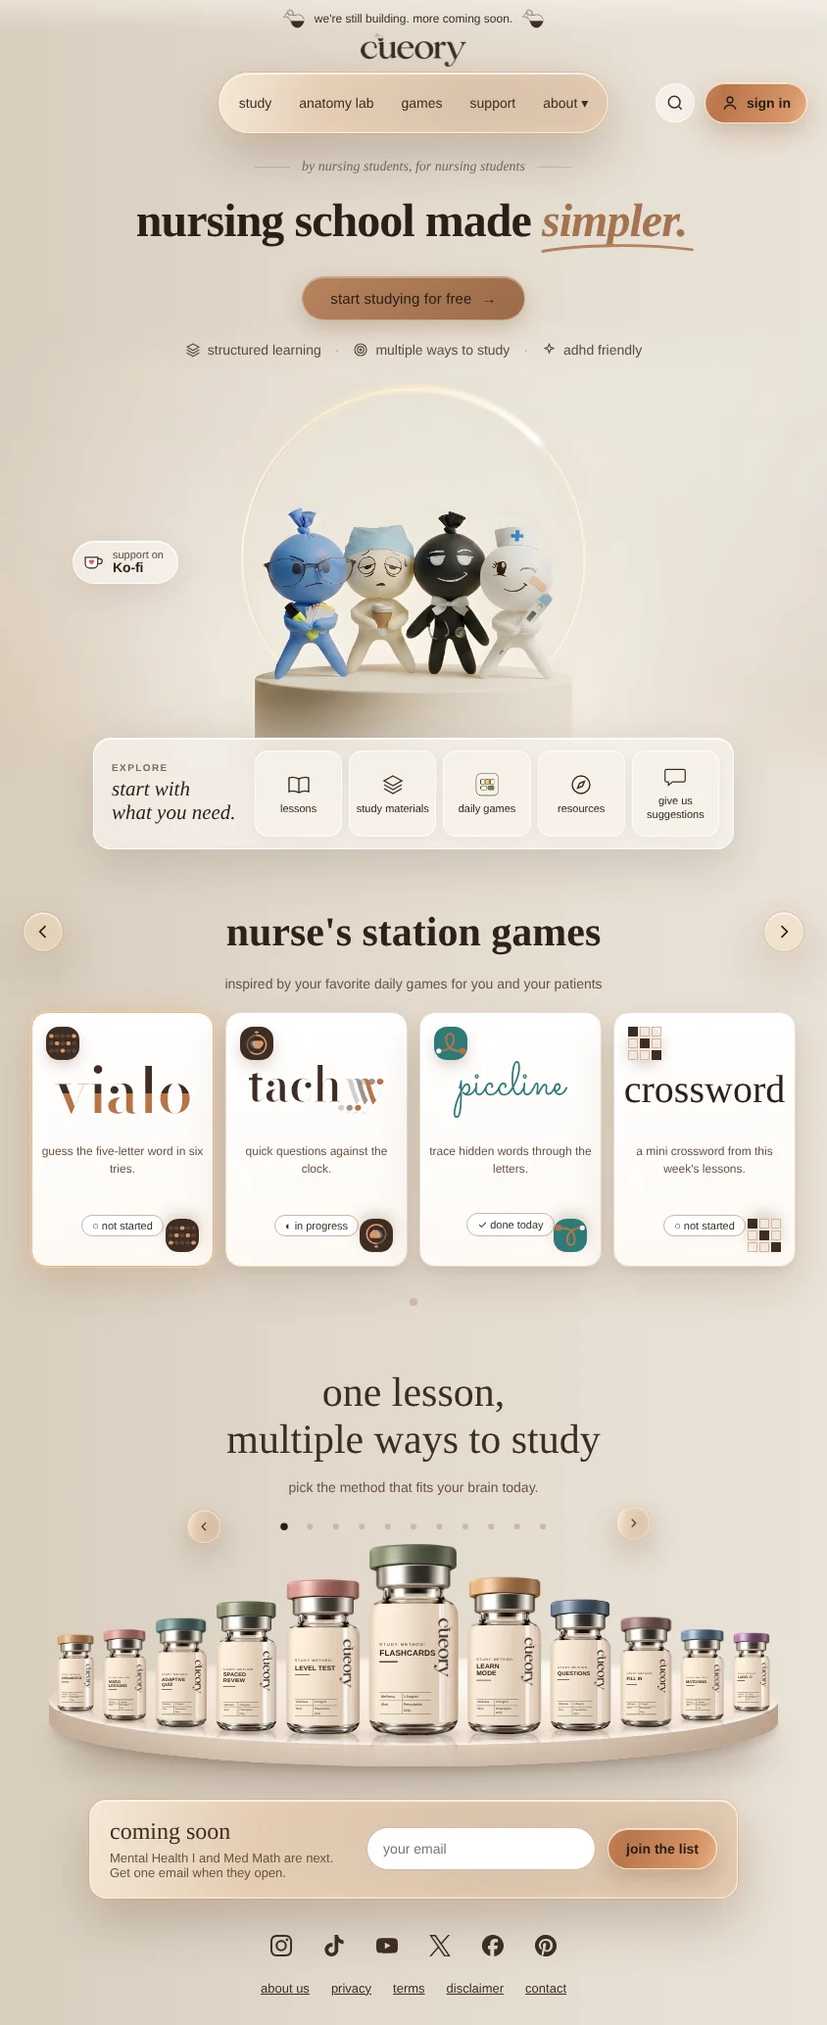
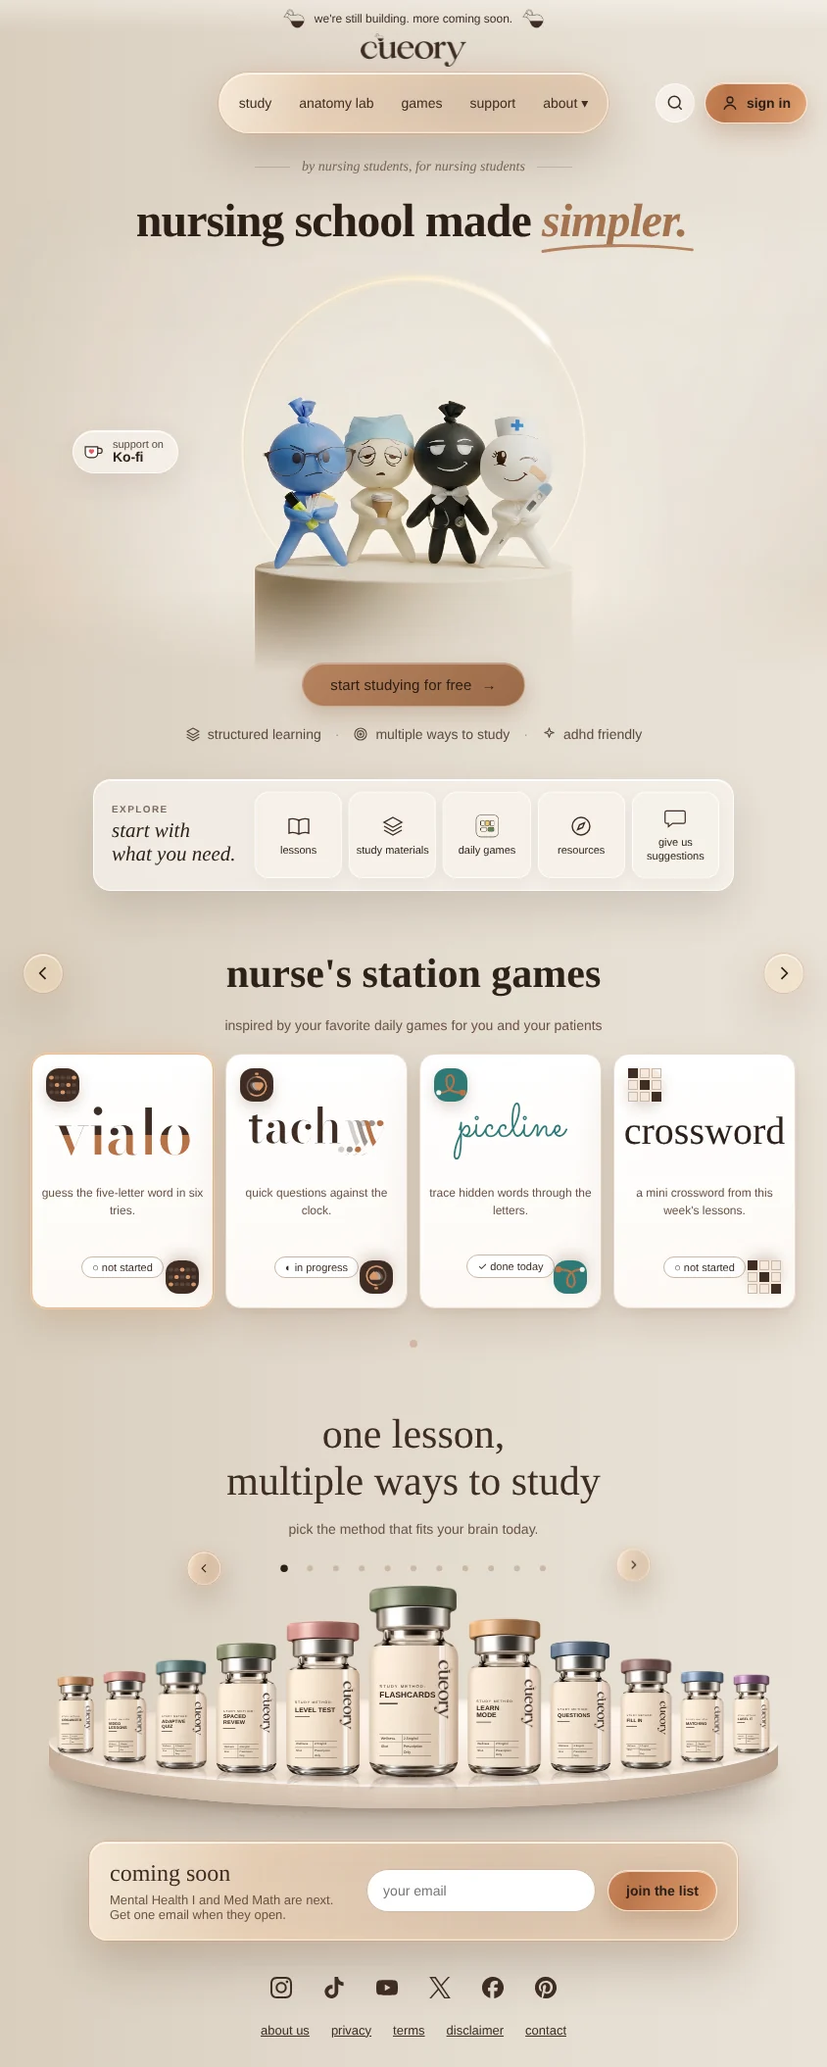
Home v3 hand-off: landscape hero order (gloves, button, points, explore)
Claude-Session: https://claude.ai/code/session_01V8pHm5xDFd3PCqqXThexqv

diff --git a/docs/design/home-v3/home-landscape-evening.dc.html b/docs/design/home-v3/home-landscape-evening.dc.html
@@ -191,16 +191,16 @@ section:not([id]){padding:26px 24px 0!important;max-width:none!important}
 section:not([id]) > div:first-child{font-size:14px!important;gap:12px!important;margin-bottom:20px!important}
 section:not([id]) > div:first-child > span{width:36px!important}
 section:not([id]) > h1{font-size:48px!important;line-height:1.12!important}
-section:not([id]) > a{margin-top:30px!important;font-size:15px!important;padding:13px 28px!important}
-section:not([id]) > div:nth-of-type(2){margin-top:22px!important;gap:12px 14px!important;font-size:14px!important}
-section:not([id]) > div:nth-of-type(3){height:252px!important;margin-top:150px!important;max-width:none!important;width:576px!important}
-section:not([id]) > div:nth-of-type(3) > img{width:864px!important;height:482px!important;top:-198px!important}
+section:not([id]) > a{margin-top:22px!important;font-size:15px!important;padding:13px 28px!important}
+section:not([id]) > div:nth-of-type(3){margin-top:20px!important;gap:12px 14px!important;font-size:14px!important}
+section:not([id]) > div:nth-of-type(2){height:252px!important;margin-top:150px!important;max-width:none!important;width:576px!important}
+section:not([id]) > div:nth-of-type(2) > img{width:864px!important;height:482px!important;top:-198px!important}
 .halo-shine{top:56px!important;width:362px!important;height:362px!important;margin:-181px 0 0 -181px!important;-webkit-mask-image:radial-gradient(circle,transparent 169px,#000 173px,#000 176px,transparent 181px)!important;mask-image:radial-gradient(circle,transparent 169px,#000 173px,#000 176px,transparent 181px)!important}
-section:not([id]) > div:nth-of-type(3) > a{left:-60px!important;top:37px!important;padding:7px 14px 7px 10px!important;gap:8px!important}
-section:not([id]) > div:nth-of-type(3) > a svg{width:22px;height:18px}
-section:not([id]) > div:nth-of-type(3) > a span span:last-child{font-size:14px!important}
+section:not([id]) > div:nth-of-type(2) > a{left:-60px!important;top:37px!important;padding:7px 14px 7px 10px!important;gap:8px!important}
+section:not([id]) > div:nth-of-type(2) > a svg{width:22px;height:18px}
+section:not([id]) > div:nth-of-type(2) > a span span:last-child{font-size:14px!important}
 #daily-games{padding:44px 24px 16px!important}
-nav[aria-label="Explore"]{max-width:620px!important;margin:-58px auto 0!important;padding:12px 14px 12px 18px!important;gap:12px!important;border-radius:18px!important;flex-wrap:nowrap!important}
+nav[aria-label="Explore"]{max-width:620px!important;margin:-6px auto 0!important;padding:12px 14px 12px 18px!important;gap:12px!important;border-radius:18px!important;flex-wrap:nowrap!important}
 nav[aria-label="Explore"] > div:first-child{flex:0 0 130px!important;padding-right:4px!important}
 nav[aria-label="Explore"] > div:first-child > div:first-child{font-size:10px!important}
 nav[aria-label="Explore"] > div:first-child > div:last-child{font-size:21px!important;margin-top:4px!important}
@@ -272,6 +272,11 @@ footer{padding:12px 24px 30px!important;gap:10px 22px!important;justify-content:
 <section style="max-width: 1120px; margin: 0 auto; padding: 20px 24px 0; display: flex; flex-direction: column; align-items: center; text-align: center; position: relative; z-index: 1; color: #f4ebe1">
 <div style="display: inline-flex; align-items: center; gap: 14px; font-family: 'Playfair Display', Georgia, serif; font-style: italic; font-size: 16px; color: #9e8a78; margin-bottom: 16px; position: relative; z-index: 3"><span aria-hidden="true" style="width: 48px; height: 1px; background: rgba(203,185,167,0.22)"></span>by nursing students, for nursing students<span aria-hidden="true" style="width: 48px; height: 1px; background: rgba(203,185,167,0.22)"></span></div>
 <h1 style="text-shadow: 0 8px 28px rgba(0,0,0,0.45); margin: 0; font-family: &quot;Bodoni Moda&quot;; font-weight: 700; font-size: 66px; line-height: 1.08; letter-spacing: -0.02em; color: #f4ebe1; position: relative; z-index: 3"><span>nursing school made</span> <span style="position: relative; display: inline-block; font-style: italic; color: #c98f63; padding-right: 4px">simpler.<svg aria-hidden="true" viewBox="0 0 220 18" preserveAspectRatio="none" fill="none" style="position: absolute; left: -2px; bottom: -8px; width: 104%; height: 14px; color: #d19668"><path d="M4 13.5C58 4.5 148 3.5 216 11.5" stroke="currentColor" stroke-width="3.6" stroke-linecap="round"></path></svg></span></h1>
+<div style="position: relative; width: 100%; max-width: 960px; height: 420px; margin-top: 36px">
+<img src="/design/home-v3/stage-evening.webp" alt="Four glove characters on a round pedestal inside a thin glowing ring: one in glasses holding study cards, one tired in a scrub cap with a coffee, one in a bow tie with a stethoscope, one in a nurse's cap holding a thermometer" style="position: absolute; left: 50%; top: -330px; transform: translateX(-50%); width: 1440px; max-width: none; height: 804px; z-index: 0; pointer-events: none; -webkit-mask-image: linear-gradient(180deg, transparent 0, #000 14%, #000 82%, transparent 100%); mask-image: linear-gradient(180deg, transparent 0, #000 14%, #000 82%, transparent 100%)"><div class="halo-shine" aria-hidden="true"><i></i></div>
+<a href="#" onClick="{{openSupport}}" style="position: absolute; left: 4%; top: 62px; z-index: 12; display: inline-flex; align-items: center; gap: 11px; padding: 10px 18px 10px 14px; border-radius: 999px; background: rgba(34,25,19,0.68); border: 1px solid rgba(226,189,154,0.22); box-shadow: 0 12px 32px rgba(0,0,0,0.55), inset 0 1px 0 rgba(255,230,205,0.12); text-decoration: none; color: #f4ebe1"><svg aria-hidden="true" width="28" height="22" viewBox="0 0 32 24" fill="none"><path d="M3 4.5h18.5v9.8a6.2 6.2 0 01-6.2 6.2H9.2A6.2 6.2 0 013 14.3V4.5z" fill="#ffffff" stroke="#2a1d16" stroke-width="1.7"></path><path d="M21.5 6.8h2.8a3.7 3.7 0 010 7.4h-2.8" stroke="#ffffff" stroke-width="1.7" stroke-linecap="round"></path><path d="M12.2 15.4s-4-2.5-4-5.1a2.3 2.3 0 014-1.5 2.3 2.3 0 014 1.5c0 2.6-4 5.1-4 5.1z" fill="#e85b63"></path></svg><span style="display: flex; flex-direction: column; text-align: left; line-height: 1.12"><span style="font-size: 11px; color: #cbb9a7">support on</span><span style="font-size: 17px; font-weight: 700; letter-spacing: -0.01em">Ko-fi</span></span></a>
+
+</div>
 <a href="#" style="margin-top: -28px; display: inline-flex; align-items: center; gap: 10px; padding: 13px 28px; border-radius: 999px; background: linear-gradient(135deg, #c1875d 0%, #9b6743 100%); border: 1px solid rgba(255,242,230,0.35); box-shadow: 0 8px 22px rgba(132,86,52,0.28), inset 0 1px 0 rgba(255,255,255,0.35); color: #1c120c; text-decoration: none; font-size: 16px; letter-spacing: 0.01em; position: relative; z-index: 3">start studying for free <span aria-hidden="true">→</span></a>
 <div style="margin-top: 38px; display: flex; flex-wrap: wrap; align-items: center; justify-content: center; gap: 12px; font-size: 14px; color: #cbb9a7; position: relative; z-index: 3">
 <span style="display: inline-flex; align-items: center; gap: 7px"><svg aria-hidden="true" width="16" height="16" viewBox="0 0 24 24" fill="none" stroke="currentColor" stroke-width="1.7" stroke-linecap="round" stroke-linejoin="round"><path d="M12 3L3 8l9 5 9-5-9-5z"></path><path d="M3 12.5l9 5 9-5"></path><path d="M3 17l9 5 9-5"></path></svg>structured learning</span>
@@ -279,11 +284,6 @@ footer{padding:12px 24px 30px!important;gap:10px 22px!important;justify-content:
 <span style="display: inline-flex; align-items: center; gap: 7px"><svg aria-hidden="true" width="16" height="16" viewBox="0 0 24 24" fill="none" stroke="currentColor" stroke-width="1.7" stroke-linecap="round" stroke-linejoin="round"><circle cx="12" cy="12" r="9"></circle><circle cx="12" cy="12" r="5"></circle><circle cx="12" cy="12" r="1.5"></circle></svg>multiple ways to study</span>
 <span aria-hidden="true" style="opacity: 0.45">·</span>
 <span style="display: inline-flex; align-items: center; gap: 7px"><svg aria-hidden="true" width="15" height="15" viewBox="0 0 24 24" fill="none" stroke="currentColor" stroke-width="1.7" stroke-linecap="round" stroke-linejoin="round"><path d="M12 3l1.9 5.6L19.5 10.5l-5.6 1.9L12 18l-1.9-5.6-5.6-1.9 5.6-1.9L12 3z"></path></svg>adhd friendly</span>
-</div>
-<div style="position: relative; width: 100%; max-width: 960px; height: 420px; margin-top: 36px">
-<img src="/design/home-v3/stage-evening.webp" alt="Four glove characters on a round pedestal inside a thin glowing ring: one in glasses holding study cards, one tired in a scrub cap with a coffee, one in a bow tie with a stethoscope, one in a nurse's cap holding a thermometer" style="position: absolute; left: 50%; top: -330px; transform: translateX(-50%); width: 1440px; max-width: none; height: 804px; z-index: 0; pointer-events: none; -webkit-mask-image: linear-gradient(180deg, transparent 0, #000 14%, #000 82%, transparent 100%); mask-image: linear-gradient(180deg, transparent 0, #000 14%, #000 82%, transparent 100%)"><div class="halo-shine" aria-hidden="true"><i></i></div>
-<a href="#" onClick="{{openSupport}}" style="position: absolute; left: 4%; top: 62px; z-index: 12; display: inline-flex; align-items: center; gap: 11px; padding: 10px 18px 10px 14px; border-radius: 999px; background: rgba(34,25,19,0.68); border: 1px solid rgba(226,189,154,0.22); box-shadow: 0 12px 32px rgba(0,0,0,0.55), inset 0 1px 0 rgba(255,230,205,0.12); text-decoration: none; color: #f4ebe1"><svg aria-hidden="true" width="28" height="22" viewBox="0 0 32 24" fill="none"><path d="M3 4.5h18.5v9.8a6.2 6.2 0 01-6.2 6.2H9.2A6.2 6.2 0 013 14.3V4.5z" fill="#ffffff" stroke="#2a1d16" stroke-width="1.7"></path><path d="M21.5 6.8h2.8a3.7 3.7 0 010 7.4h-2.8" stroke="#ffffff" stroke-width="1.7" stroke-linecap="round"></path><path d="M12.2 15.4s-4-2.5-4-5.1a2.3 2.3 0 014-1.5 2.3 2.3 0 014 1.5c0 2.6-4 5.1-4 5.1z" fill="#e85b63"></path></svg><span style="display: flex; flex-direction: column; text-align: left; line-height: 1.12"><span style="font-size: 11px; color: #cbb9a7">support on</span><span style="font-size: 17px; font-weight: 700; letter-spacing: -0.01em">Ko-fi</span></span></a>
-
 </div>
 </section>
 
@@ -434,7 +434,7 @@ footer{padding:12px 24px 30px!important;gap:10px 22px!important;justify-content:
 
 </div>
 </x-dc>
-<script type="text/x-dc" data-dc-script="" data-props="{&quot;$preview&quot;:{&quot;width&quot;:844,&quot;height&quot;:2067}}">
+<script type="text/x-dc" data-dc-script="" data-props="{&quot;$preview&quot;:{&quot;width&quot;:844,&quot;height&quot;:2109}}">
 class Component extends DCLogic {
   constructor(props) { super(props); this.state = { modal: null, about: false, active: 4, game: 0, card: 0 }; }
   renderVals() {

diff --git a/docs/design/home-v3/home-landscape-light.dc.html b/docs/design/home-v3/home-landscape-light.dc.html
@@ -168,16 +168,16 @@ section:not([id]){padding:26px 24px 0!important;max-width:none!important}
 section:not([id]) > div:first-child{font-size:14px!important;gap:12px!important;margin-bottom:20px!important}
 section:not([id]) > div:first-child > span{width:36px!important}
 section:not([id]) > h1{font-size:48px!important;line-height:1.12!important}
-section:not([id]) > a{margin-top:30px!important;font-size:15px!important;padding:13px 28px!important}
-section:not([id]) > div:nth-of-type(2){margin-top:22px!important;gap:12px 14px!important;font-size:14px!important}
-section:not([id]) > div:nth-of-type(3){height:252px!important;margin-top:150px!important;max-width:none!important;width:576px!important}
-section:not([id]) > div:nth-of-type(3) > img{width:864px!important;height:482px!important;top:-198px!important}
+section:not([id]) > a{margin-top:22px!important;font-size:15px!important;padding:13px 28px!important}
+section:not([id]) > div:nth-of-type(3){margin-top:20px!important;gap:12px 14px!important;font-size:14px!important}
+section:not([id]) > div:nth-of-type(2){height:252px!important;margin-top:150px!important;max-width:none!important;width:576px!important}
+section:not([id]) > div:nth-of-type(2) > img{width:864px!important;height:482px!important;top:-198px!important}
 .halo-shine{top:56px!important;width:362px!important;height:362px!important;margin:-181px 0 0 -181px!important;-webkit-mask-image:radial-gradient(circle,transparent 169px,#000 173px,#000 176px,transparent 181px)!important;mask-image:radial-gradient(circle,transparent 169px,#000 173px,#000 176px,transparent 181px)!important}
-section:not([id]) > div:nth-of-type(3) > a{left:-60px!important;top:37px!important;padding:7px 14px 7px 10px!important;gap:8px!important}
-section:not([id]) > div:nth-of-type(3) > a svg{width:22px;height:18px}
-section:not([id]) > div:nth-of-type(3) > a span span:last-child{font-size:14px!important}
+section:not([id]) > div:nth-of-type(2) > a{left:-60px!important;top:37px!important;padding:7px 14px 7px 10px!important;gap:8px!important}
+section:not([id]) > div:nth-of-type(2) > a svg{width:22px;height:18px}
+section:not([id]) > div:nth-of-type(2) > a span span:last-child{font-size:14px!important}
 #daily-games{padding:44px 24px 16px!important}
-nav[aria-label="Explore"]{max-width:620px!important;margin:-58px auto 0!important;padding:12px 14px 12px 18px!important;gap:12px!important;border-radius:18px!important;flex-wrap:nowrap!important}
+nav[aria-label="Explore"]{max-width:620px!important;margin:-6px auto 0!important;padding:12px 14px 12px 18px!important;gap:12px!important;border-radius:18px!important;flex-wrap:nowrap!important}
 nav[aria-label="Explore"] > div:first-child{flex:0 0 130px!important;padding-right:4px!important}
 nav[aria-label="Explore"] > div:first-child > div:first-child{font-size:10px!important}
 nav[aria-label="Explore"] > div:first-child > div:last-child{font-size:21px!important;margin-top:4px!important}
@@ -249,6 +249,11 @@ footer{padding:12px 24px 30px!important;gap:10px 22px!important;justify-content:
 <section style="max-width: 1120px; margin: 0 auto; padding: 20px 24px 0; display: flex; flex-direction: column; align-items: center; text-align: center; position: relative; z-index: 1; color: #2d1f17">
 <div style="display: inline-flex; align-items: center; gap: 14px; font-family: 'Playfair Display', Georgia, serif; font-style: italic; font-size: 16px; color: #7e695b; margin-bottom: 16px; position: relative; z-index: 3"><span aria-hidden="true" style="width: 48px; height: 1px; background: rgba(92,73,61,0.22)"></span>by nursing students, for nursing students<span aria-hidden="true" style="width: 48px; height: 1px; background: rgba(92,73,61,0.22)"></span></div>
 <h1 style="margin: 0; font-family: &quot;Bodoni Moda&quot;; font-weight: 700; font-size: 66px; line-height: 1.08; letter-spacing: -0.02em; color: #2d1f17; position: relative; z-index: 3"><span>nursing school made</span> <span style="position: relative; display: inline-block; font-style: italic; color: #a47350; padding-right: 4px">simpler.<svg aria-hidden="true" viewBox="0 0 220 18" preserveAspectRatio="none" fill="none" style="position: absolute; left: -2px; bottom: -8px; width: 104%; height: 14px; color: #b5825e"><path d="M4 13.5C58 4.5 148 3.5 216 11.5" stroke="currentColor" stroke-width="3.6" stroke-linecap="round"></path></svg></span></h1>
+<div style="position: relative; width: 100%; max-width: 960px; height: 420px; margin-top: 36px">
+<img src="/design/home-v3/stage-light.webp" alt="Four glove characters on a round pedestal inside a thin glowing ring: one in glasses holding study cards, one tired in a scrub cap with a coffee, one in a bow tie with a stethoscope, one in a nurse's cap holding a thermometer" style="position: absolute; left: 50%; top: -330px; transform: translateX(-50%); width: 1440px; max-width: none; height: 804px; z-index: 0; pointer-events: none; -webkit-mask-image: linear-gradient(180deg, transparent 0, #000 14%, #000 82%, transparent 100%); mask-image: linear-gradient(180deg, transparent 0, #000 14%, #000 82%, transparent 100%)"><div class="halo-shine" aria-hidden="true"><i></i></div>
+<a href="#" onClick="{{openSupport}}" style="position: absolute; left: 4%; top: 62px; z-index: 12; display: inline-flex; align-items: center; gap: 11px; padding: 10px 18px 10px 14px; border-radius: 999px; background: rgba(252,249,244,0.62); border: 1px solid rgba(255,255,255,0.78); box-shadow: 0 10px 30px rgba(74,52,36,0.10), inset 0 1px 0 rgba(255,255,255,0.85); text-decoration: none; color: #2d1f17"><svg aria-hidden="true" width="28" height="22" viewBox="0 0 32 24" fill="none"><path d="M3 4.5h18.5v9.8a6.2 6.2 0 01-6.2 6.2H9.2A6.2 6.2 0 013 14.3V4.5z" fill="#ffffff" stroke="#3a2920" stroke-width="1.7"></path><path d="M21.5 6.8h2.8a3.7 3.7 0 010 7.4h-2.8" stroke="#3a2920" stroke-width="1.7" stroke-linecap="round"></path><path d="M12.2 15.4s-4-2.5-4-5.1a2.3 2.3 0 014-1.5 2.3 2.3 0 014 1.5c0 2.6-4 5.1-4 5.1z" fill="#e85b63"></path></svg><span style="display: flex; flex-direction: column; text-align: left; line-height: 1.12"><span style="font-size: 11px; color: #5c493d">support on</span><span style="font-size: 17px; font-weight: 700; letter-spacing: -0.01em">Ko-fi</span></span></a>
+
+</div>
 <a href="#" style="margin-top: -28px; display: inline-flex; align-items: center; gap: 10px; padding: 13px 28px; border-radius: 999px; background: linear-gradient(135deg, #b6835f 0%, #9b6a48 100%); border: 1px solid rgba(255,242,230,0.35); box-shadow: 0 8px 22px rgba(132,86,52,0.28), inset 0 1px 0 rgba(255,255,255,0.35); color: #2a1c14; text-decoration: none; font-size: 16px; letter-spacing: 0.01em; position: relative; z-index: 3">start studying for free <span aria-hidden="true">→</span></a>
 <div style="margin-top: 38px; display: flex; flex-wrap: wrap; align-items: center; justify-content: center; gap: 12px; font-size: 14px; color: #5c493d; position: relative; z-index: 3">
 <span style="display: inline-flex; align-items: center; gap: 7px"><svg aria-hidden="true" width="16" height="16" viewBox="0 0 24 24" fill="none" stroke="currentColor" stroke-width="1.7" stroke-linecap="round" stroke-linejoin="round"><path d="M12 3L3 8l9 5 9-5-9-5z"></path><path d="M3 12.5l9 5 9-5"></path><path d="M3 17l9 5 9-5"></path></svg>structured learning</span>
@@ -257,11 +262,8 @@ footer{padding:12px 24px 30px!important;gap:10px 22px!important;justify-content:
 <span aria-hidden="true" style="opacity: 0.45">·</span>
 <span style="display: inline-flex; align-items: center; gap: 7px"><svg aria-hidden="true" width="15" height="15" viewBox="0 0 24 24" fill="none" stroke="currentColor" stroke-width="1.7" stroke-linecap="round" stroke-linejoin="round"><path d="M12 3l1.9 5.6L19.5 10.5l-5.6 1.9L12 18l-1.9-5.6-5.6-1.9 5.6-1.9L12 3z"></path></svg>adhd friendly</span>
 </div>
-<div style="position: relative; width: 100%; max-width: 960px; height: 420px; margin-top: 36px">
-<img src="/design/home-v3/stage-light.webp" alt="Four glove characters on a round pedestal inside a thin glowing ring: one in glasses holding study cards, one tired in a scrub cap with a coffee, one in a bow tie with a stethoscope, one in a nurse's cap holding a thermometer" style="position: absolute; left: 50%; top: -330px; transform: translateX(-50%); width: 1440px; max-width: none; height: 804px; z-index: 0; pointer-events: none; -webkit-mask-image: linear-gradient(180deg, transparent 0, #000 14%, #000 82%, transparent 100%); mask-image: linear-gradient(180deg, transparent 0, #000 14%, #000 82%, transparent 100%)"><div class="halo-shine" aria-hidden="true"><i></i></div>
-<a href="#" onClick="{{openSupport}}" style="position: absolute; left: 4%; top: 62px; z-index: 12; display: inline-flex; align-items: center; gap: 11px; padding: 10px 18px 10px 14px; border-radius: 999px; background: rgba(252,249,244,0.62); border: 1px solid rgba(255,255,255,0.78); box-shadow: 0 10px 30px rgba(74,52,36,0.10), inset 0 1px 0 rgba(255,255,255,0.85); text-decoration: none; color: #2d1f17"><svg aria-hidden="true" width="28" height="22" viewBox="0 0 32 24" fill="none"><path d="M3 4.5h18.5v9.8a6.2 6.2 0 01-6.2 6.2H9.2A6.2 6.2 0 013 14.3V4.5z" fill="#ffffff" stroke="#3a2920" stroke-width="1.7"></path><path d="M21.5 6.8h2.8a3.7 3.7 0 010 7.4h-2.8" stroke="#3a2920" stroke-width="1.7" stroke-linecap="round"></path><path d="M12.2 15.4s-4-2.5-4-5.1a2.3 2.3 0 014-1.5 2.3 2.3 0 014 1.5c0 2.6-4 5.1-4 5.1z" fill="#e85b63"></path></svg><span style="display: flex; flex-direction: column; text-align: left; line-height: 1.12"><span style="font-size: 11px; color: #5c493d">support on</span><span style="font-size: 17px; font-weight: 700; letter-spacing: -0.01em">Ko-fi</span></span></a>
 
-</div>
+
 </section>
 
 
@@ -411,7 +413,7 @@ footer{padding:12px 24px 30px!important;gap:10px 22px!important;justify-content:
 
 </div>
 </x-dc>
-<script type="text/x-dc" data-dc-script="" data-props="{&quot;$preview&quot;:{&quot;width&quot;:844,&quot;height&quot;:2067}}">
+<script type="text/x-dc" data-dc-script="" data-props="{&quot;$preview&quot;:{&quot;width&quot;:844,&quot;height&quot;:2109}}">
 class Component extends DCLogic {
   constructor(props) { super(props); this.state = { modal: null, about: false, active: 4, game: 0, card: 0 }; }
   renderVals() {

diff --git a/docs/design/home-v3/README.md b/docs/design/home-v3/README.md
@@ -10,7 +10,7 @@ built"). These files are the hand-off for building it. The canvas stays the sour
 | `home-light-1440.webp`, `home-evening-1440.webp` | Full-page pictures of the approved Light and Evening boards at 1440 px wide. Build to match these. |
 | `home-light.dc.html`, `home-evening.dc.html` | The board sources. Read them for exact sizes, spacing, gradients, the halo animation and the vial layout script. They are design files, not page code: rebuild with our components, tokens and layout. |
 | `home-phone-light-390.webp`, `home-phone-evening-390.webp`, `home-phone-*.dc.html` | Phone portrait boards at 390 wide (the logo is centred on the screen, the bottom two explore tiles are centred, and the vial dots sit in one row under the platter with an arrow at each end). The header gets a menu button, with search and sign in as icons; the hero puts the button and points above the stage; the explore dock uses 3 + 2 tiles; game cards swipe; the vial platter shows the front vial plus one each side (D-192), with the arrows under the platter. |
-| `home-landscape-light-844.webp`, `home-landscape-evening-844.webp`, `home-landscape-*.dc.html` | Phone landscape boards (844 × 390). This is the desktop layout at about 60%: the logo centred with the menu bar under it, the hero text stacked and centred with generous spacing, and the stage (ring, gloves, Ko-fi pill) starting below the three points, the explore dock overlapping the stage, four game cards, all 11 vials on the platter, and the email form on one row. |
+| `home-landscape-light-844.webp`, `home-landscape-evening-844.webp`, `home-landscape-*.dc.html` | Phone landscape boards (844 × 390). This is the desktop layout at about 60%, with one change to the hero order: the headline, then the glove stage (ring, characters, Ko-fi pill) starting just under it, then the start button, then the three points on one line, then the explore dock as a normal block (no overlap). Below that: four game cards, all 11 vials on the platter, and the email form on one row. |
 | `/public/design/home-v3/stage-light.webp`, `stage-evening.webp` | Hero background photo (glove characters on the round pedestal inside the glowing ring), 2880 × 1607. |
 | `/public/design/home-v3/silk-band.svg`, `pip-vialo.svg`, `pip-piccline.svg`, `icon-games.webp` | Small pieces the boards use. |
 | `/public/vials/v2/vial-*.webp` | Rebuilt study-method vials, 912 px wide (clean outlines, curved label edges). They replace `/public/vials/*.webp` once the new carousel ships. The method name, table and logo stay live text and official logo artwork laid over the blank label, as today. |
